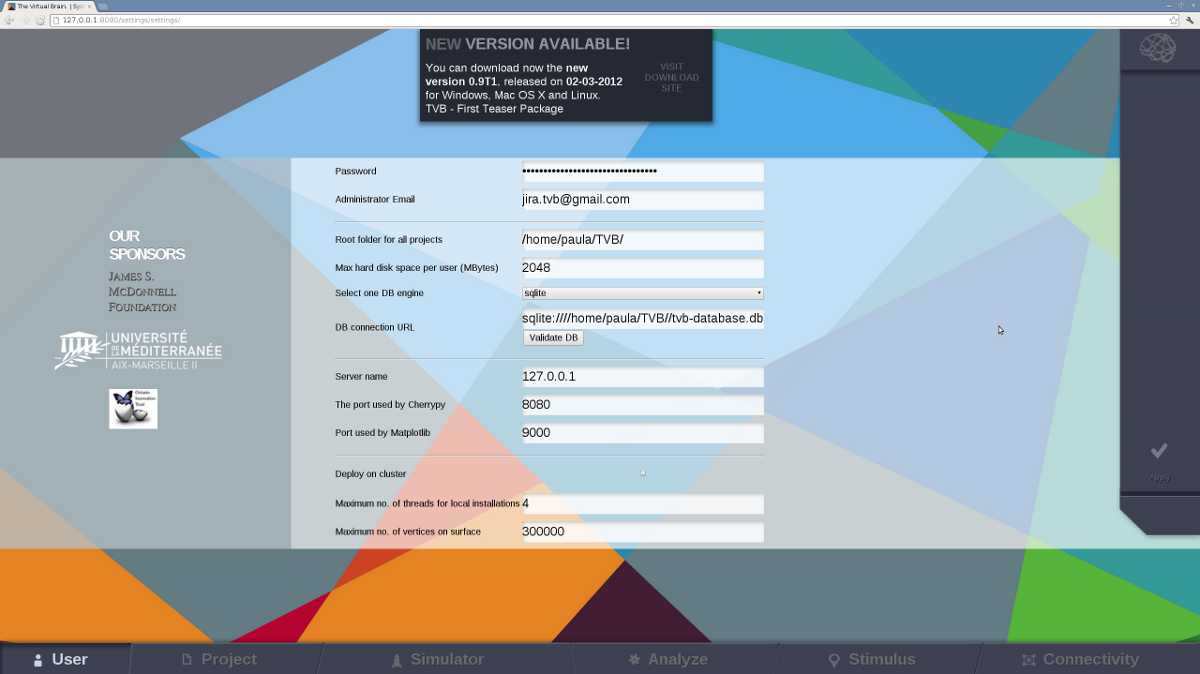
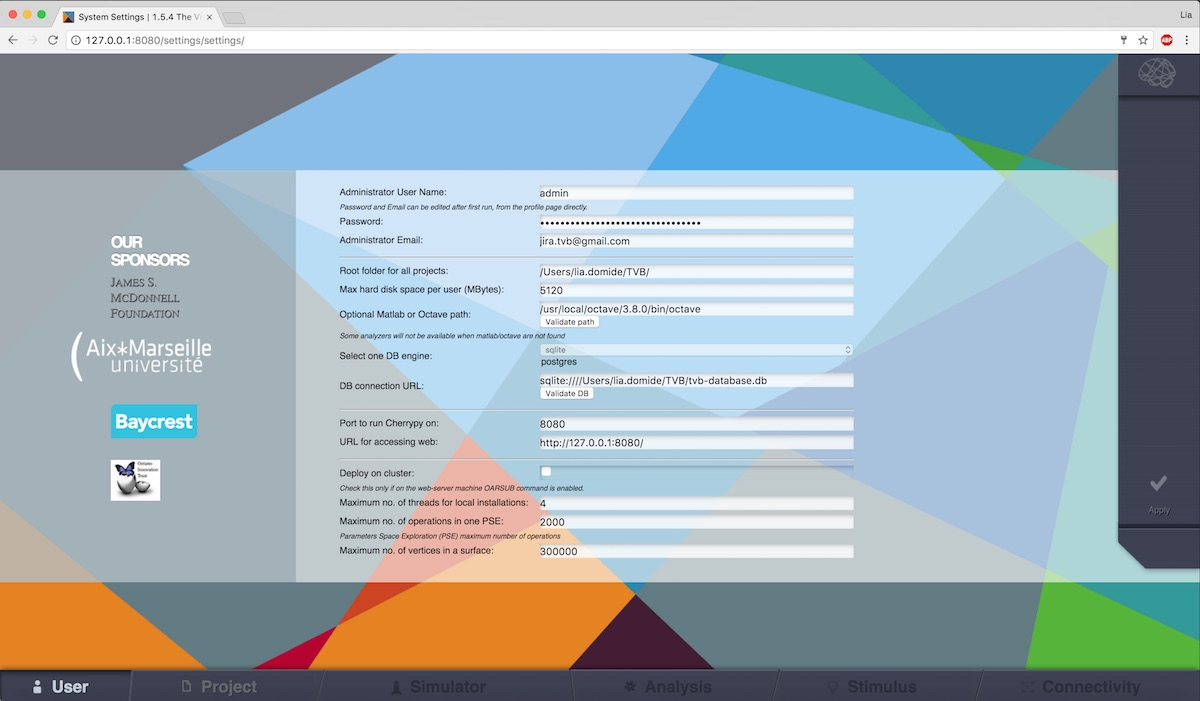
Update screenshots in documentation as GUI slightly changed
git-svn-id: https://repo.thevirtualbrain.org/svn/tvb/trunk/tvb_documentation@8372 1c0e02f0-7929-43c0-8fb3-3293bf43b0d1

diff --git a/manuals/UserGuide/UserGuide-UI_User.rst b/manuals/UserGuide/UserGuide-UI_User.rst
@@ -79,10 +79,6 @@ Cherrypy port:
     the port used by cherrypy. You need to make sure this port is not used by some other
     application otherwise |TVB| will not start.
 
-Matplotlib port:
-    the port used by matplotlib. You need to make sure this port is not used by some other
-    application otherwise some visualizers will not work.
-
 Deploy on cluster:
     set true if you want to run |TVB| on a cluster environment.
 
